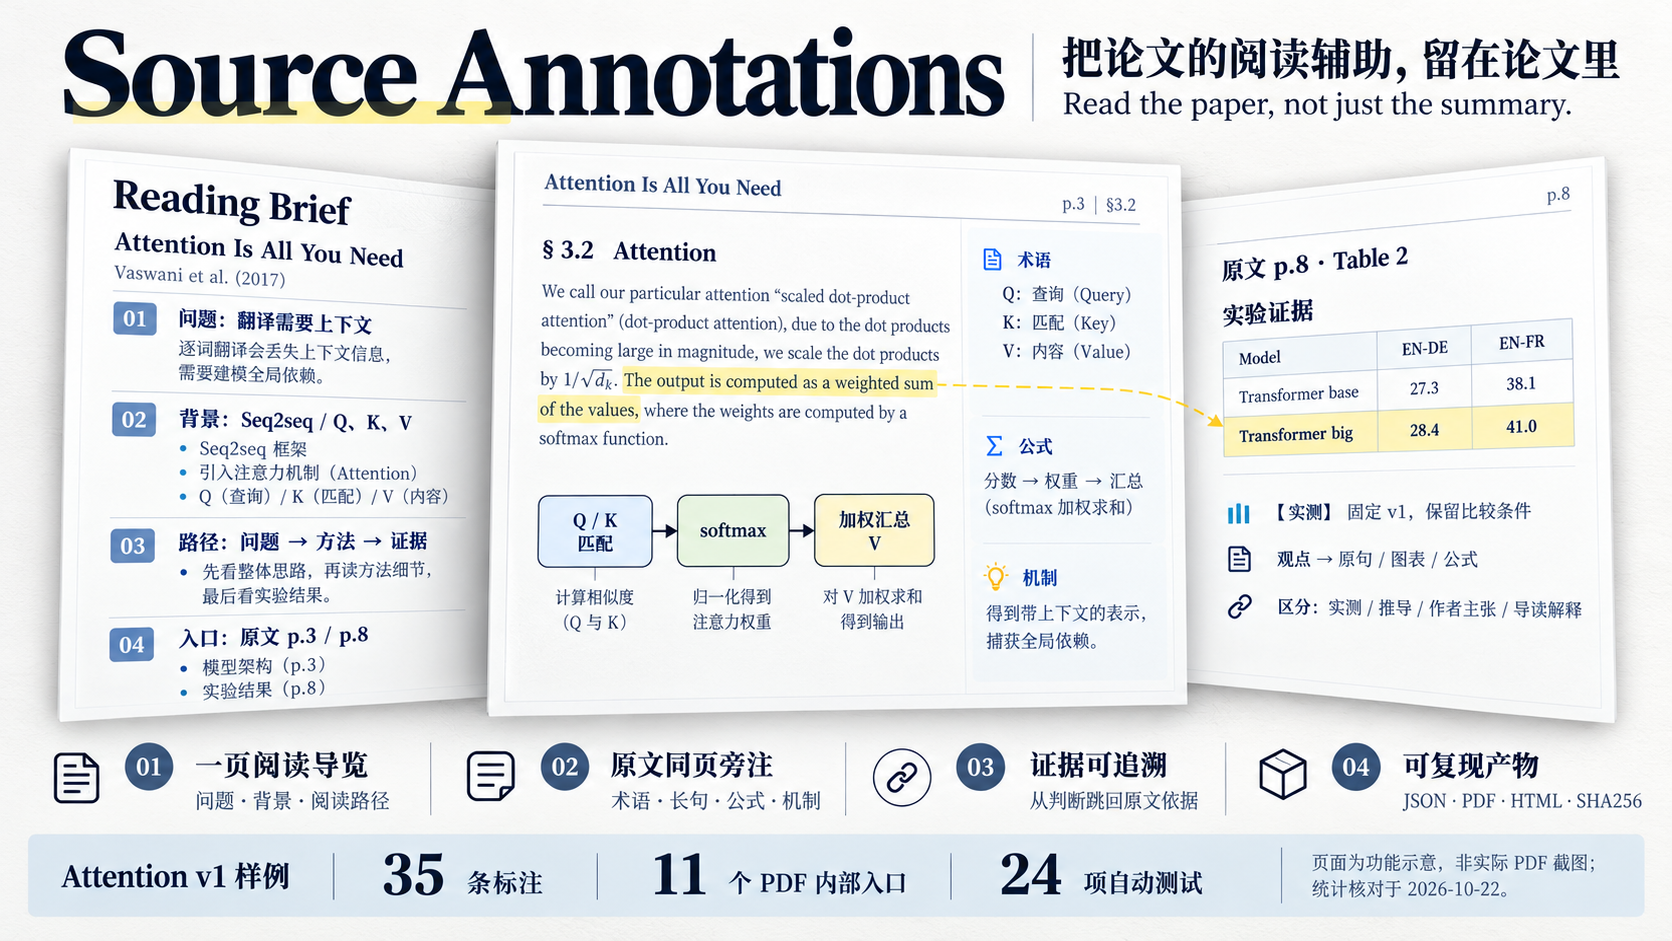
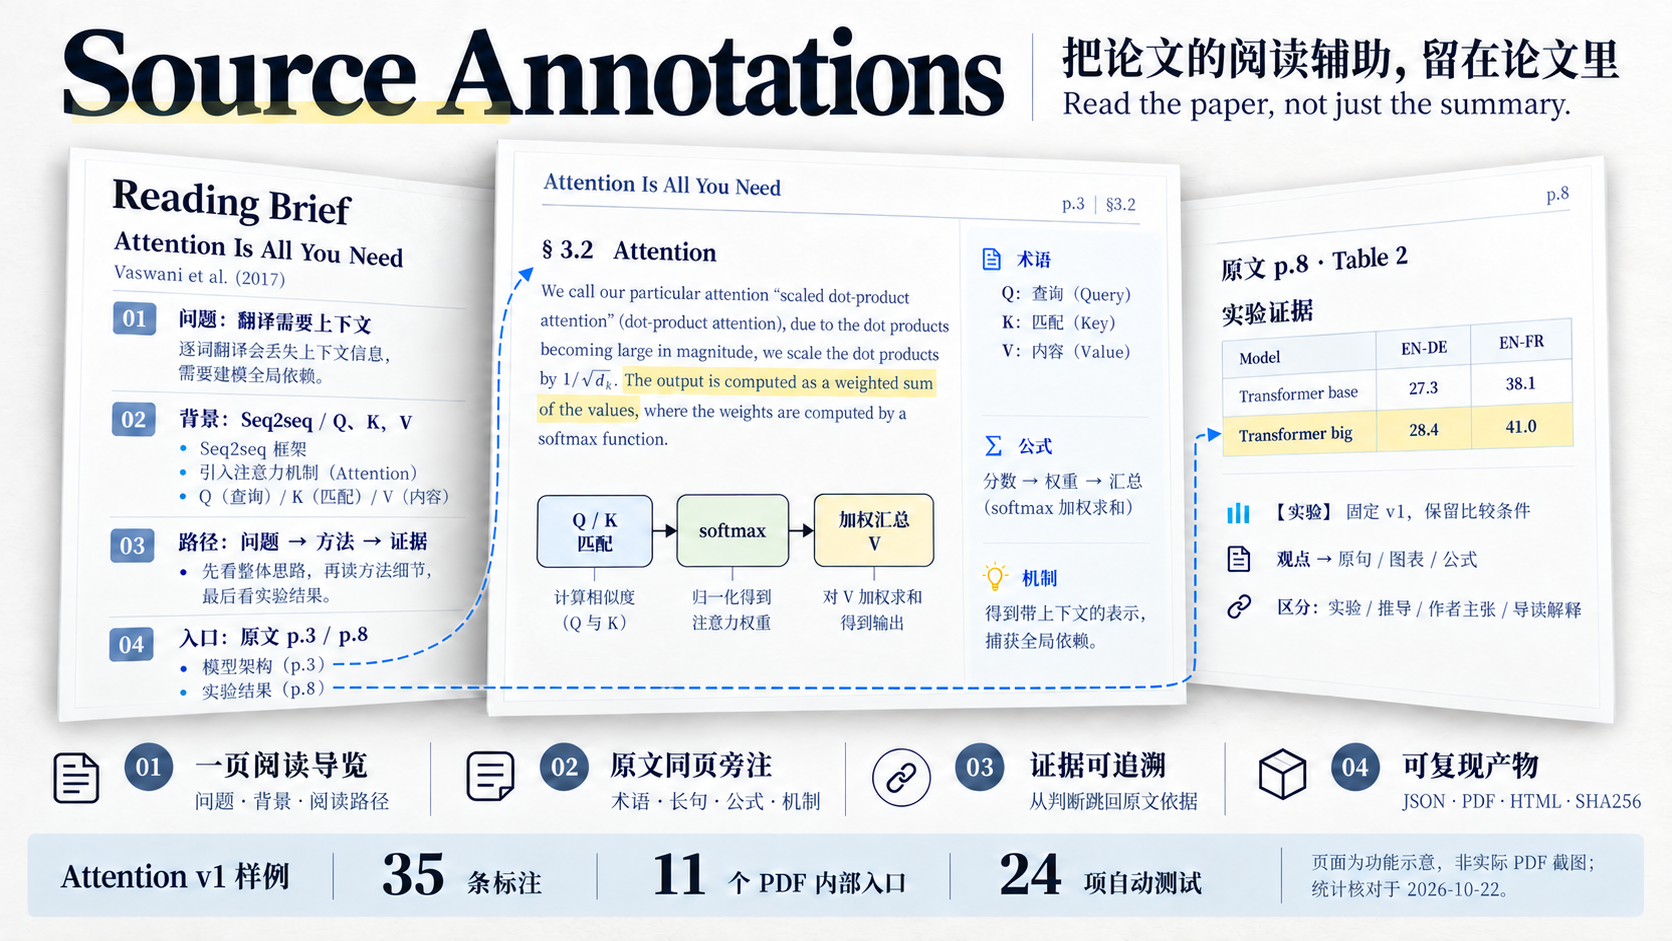
Fix overview arrows to originate from Reading Brief entry links

diff --git a/docs/showcase.md b/docs/showcase.md
@@ -2,6 +2,8 @@
 
 先用一张功能总览解释阅读导览、同页旁注、证据追溯和可复现产物；再用《Attention Is All You Need》固定 v1 的真实成果核对效果。
 
+总览图中的两条蓝色虚线从左侧04入口分别指向方法页和结果页，表示导览到原文的导航；注意力的加权求和定义不与实验结果表直接连线。
+
 | 素材 | 用途 |
 |---|---|
 | [功能总览](../examples/attention-is-all-you-need/showcase/overview.png) | 沿用用户提供海报的视觉，重排为横版；图中页面是功能示意，不是实际 PDF 截图。35条标注、11个内部入口、24项测试对应2026-10-22记录 |

diff --git a/CHANGELOG.md b/CHANGELOG.md
@@ -3,6 +3,7 @@
 ## 2026-10-22 · 恢复功能总览主图
 
 - README 首屏恢复用户提供海报的设计，横版重排三页展开与四项能力总览；修正旧案例统计和页码，并标明功能示意。
+- 导航箭头从左侧 Reading Brief 的04入口分别连接方法页和结果页，移除公式原句到实验表的错误连线。
 - 真实导览、原句旁注和证据路径继续保留，分别承担效果核对；不因统计过时而替换整套视觉。
 - 仅调整展示素材与文档，不修改 Skill、论文标注和 PDF 生成逻辑。
 
